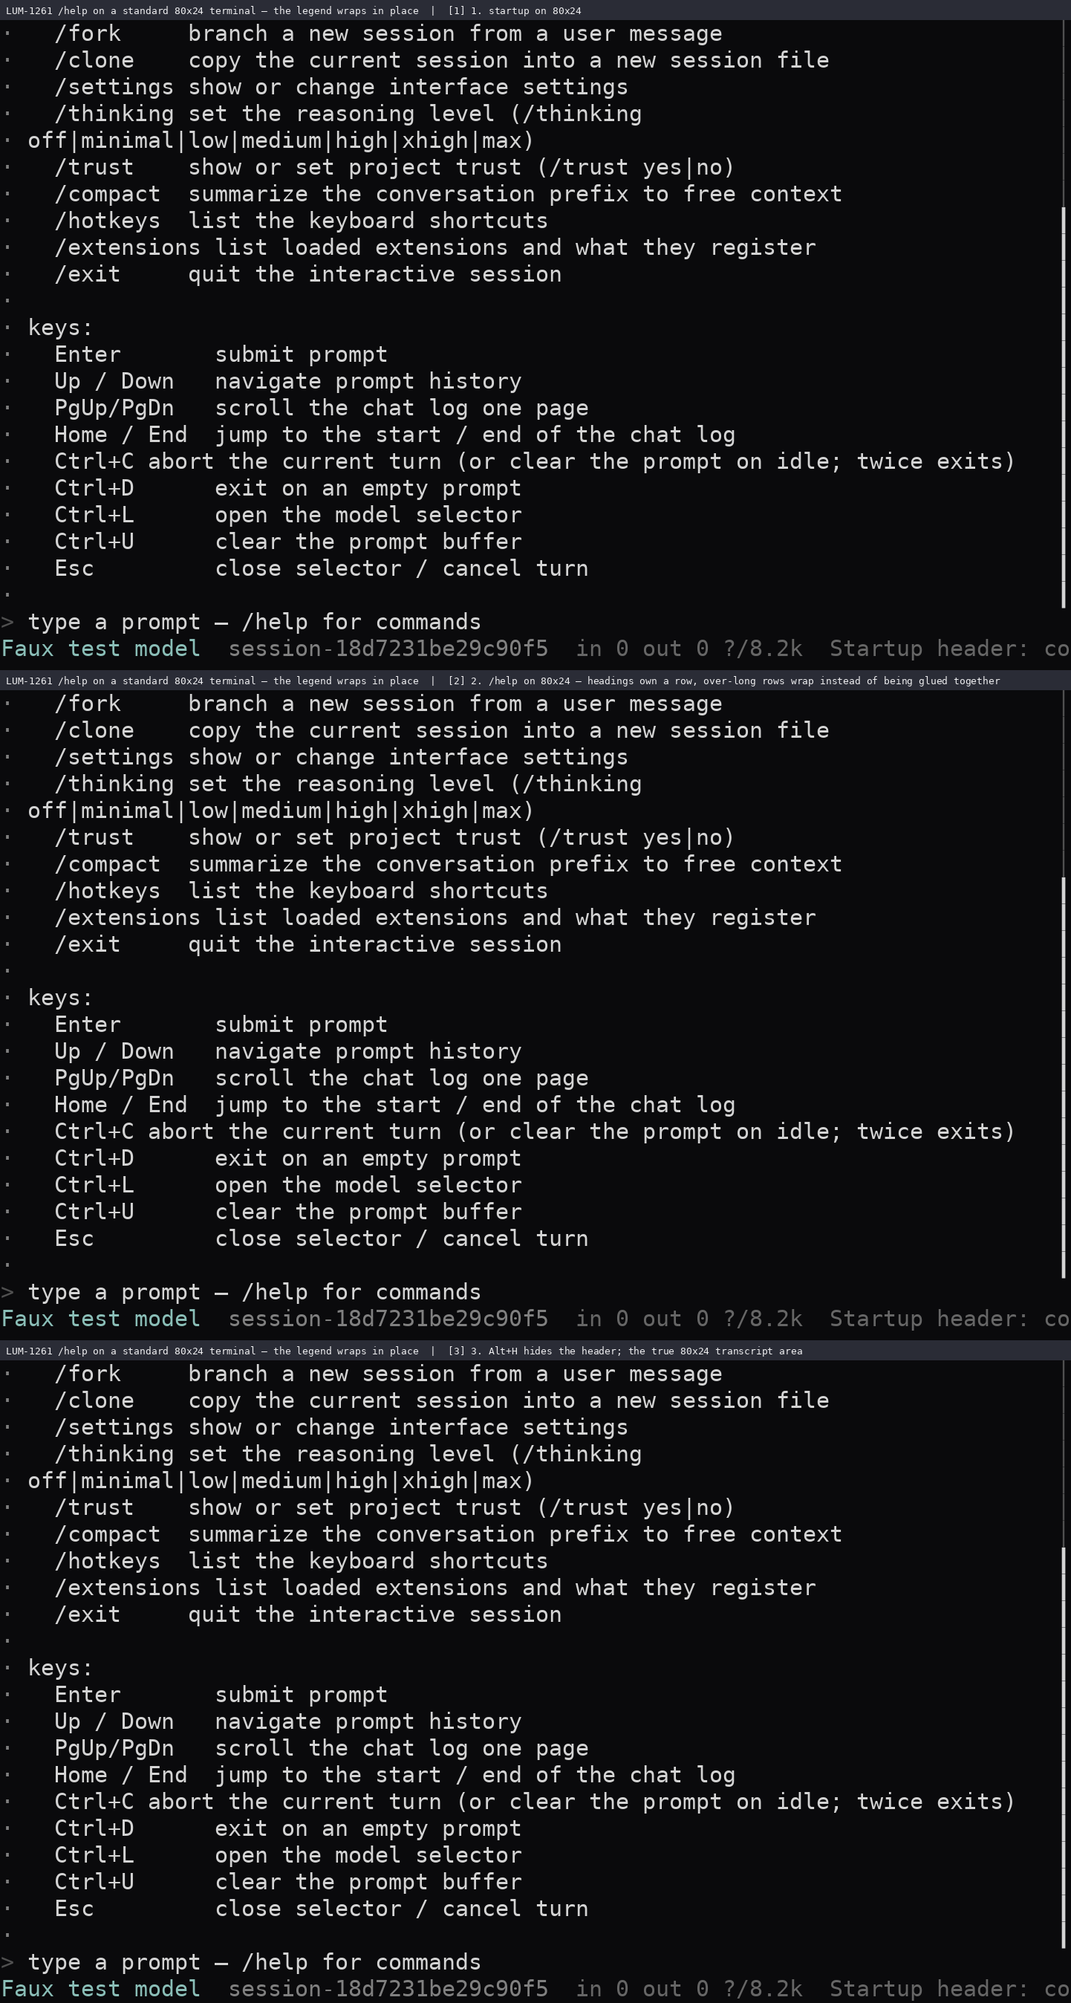
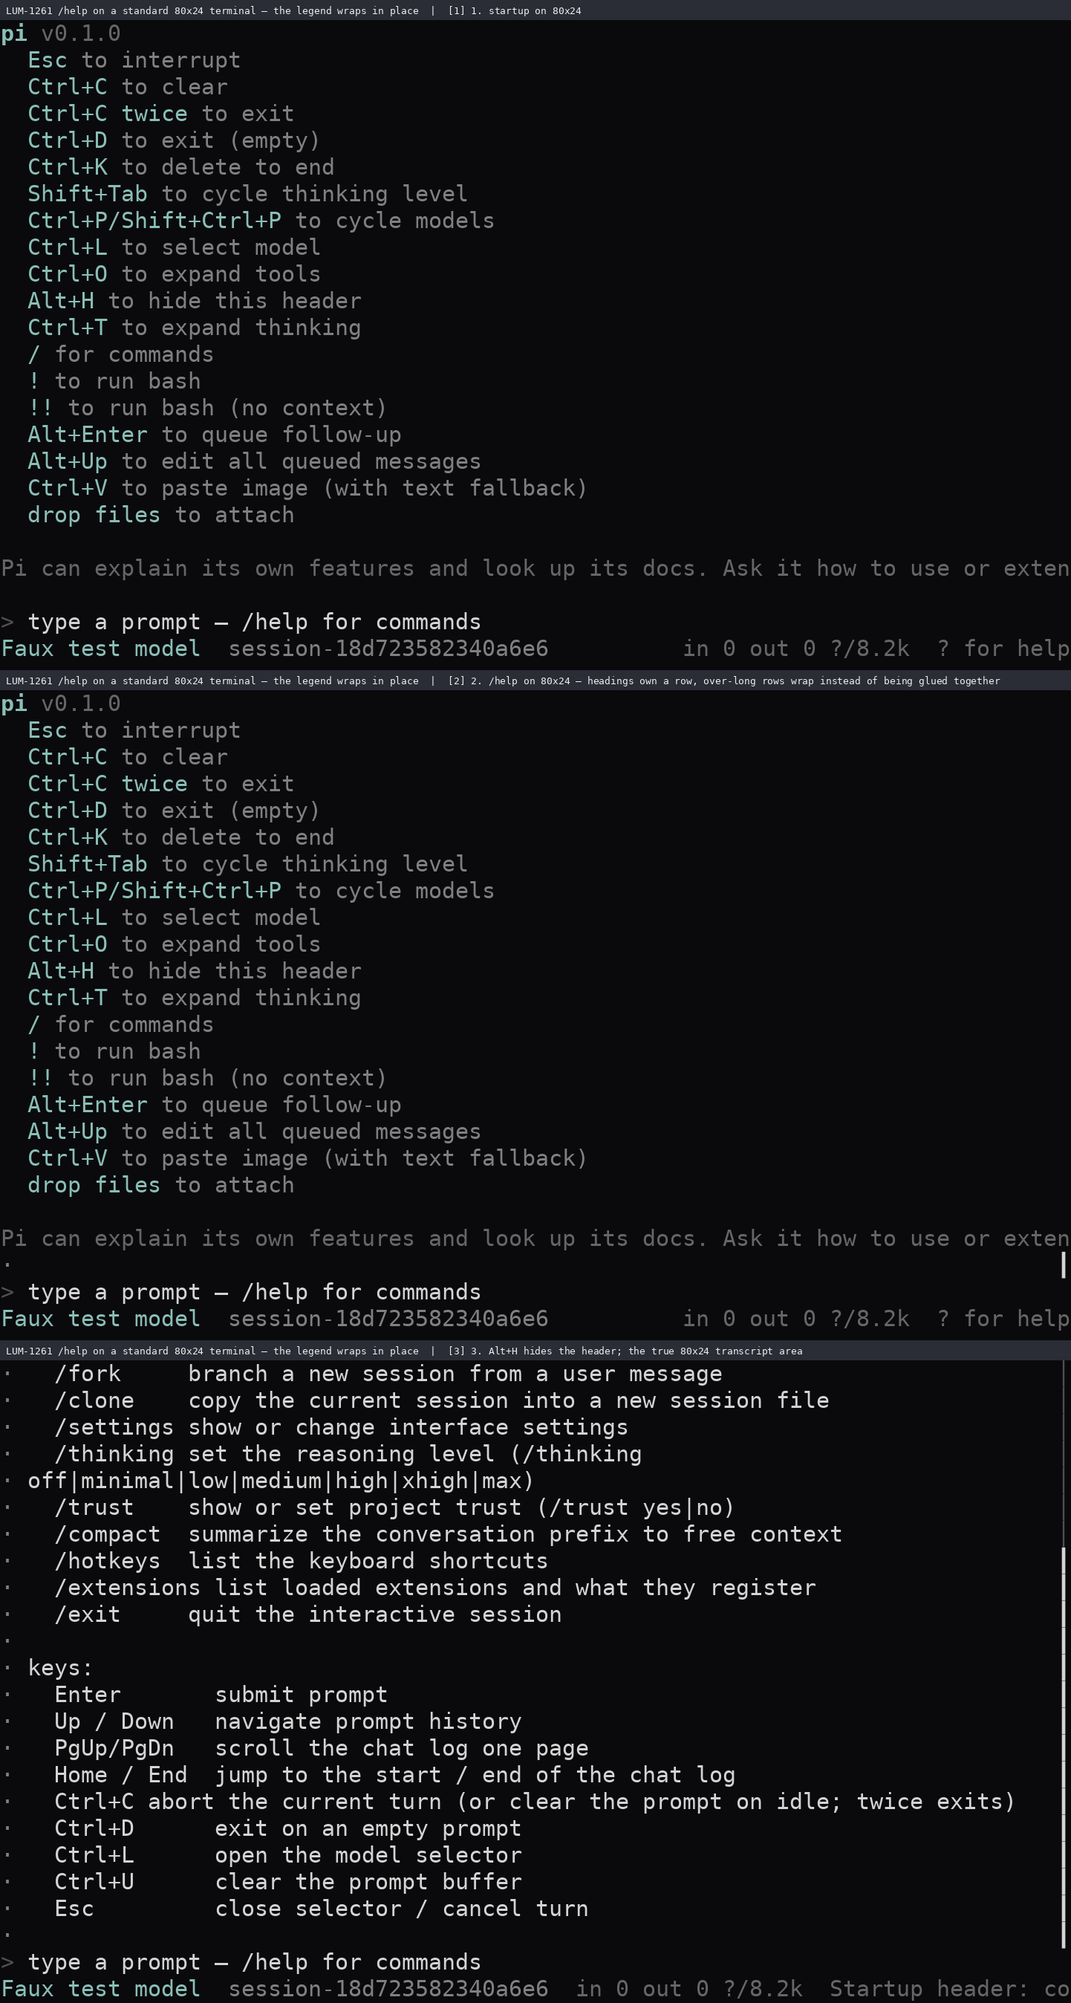
fix(pi-tui),docs: LUM-1261 — 启动头不再把输入框挤出屏幕（plan_chrome 先预留提示行）
根因：extension_ui.rs 的 plan_chrome 按渲染顺序发预算（header 第一、editor 最后），
默认 21 行启动头在 total=23 时吃光 23-1(状态栏)-1(转写行)=21 行预算，editor 拿到 0 行，
输入框被画进零高度区域 → 用户在 120x22/120x23 终端上盲打（LUM-1260 §3.1 的第 1 条）。

修法：先预留 editor 那一行（提示行不可替代，启动头自带 Alt+H 逃生口），其余再按
header → Above → Below → footer 发，用尽时仍截尾；被截的是 header 的尾行
（paint_extension_lines 只画前 rect.height 行）。24 行及以上行为完全不变。

证据（120x23 同尺寸前后对照，真 PTY）：
- before lum1260-small-terminal-23.png.txt（tip b5769b585）：行 20-23 = 空行/onboarding/空行/状态栏，
  输入框整行不存在；打完草稿仍 grep 不到。
- after  lum1261-small-terminal-23.png.txt（本提交）：行 22 = "> typed blind▍"，Alt+H 仍可收起。

测试：extension_ui.rs:758 新增 the_startup_header_cannot_starve_the_prompt（21 行启动头 x
22/23/24 三档断言）；extension_ui.rs:739 旧用例按新策略更新。pi-tui 全量 798 passed / 0 failed。

文档：TUI_INPUT_AND_LAYOUT_VERIFICATION.md §7（含 §2.5 两条验收标准达成的取证与
§7.4 未做项）、RUST_TS_PARITY_METRICS.md §0.3（口径不变，关闭 §0.2 性价比序列的第 1、3 条）。

diff --git a/pi-rust/crates/pi-tui/src/extension_ui.rs b/pi-rust/crates/pi-tui/src/extension_ui.rs
@@ -31,14 +31,24 @@
 //! * The status row (1 row) and at least one message row are reserved first;
 //!   the message view therefore never disappears, however tall the extension
 //!   regions are.
-//! * The remaining rows are handed to the chrome regions in render order —
-//!   header, Above widgets, editor, Below widgets, footer — each taking at
-//!   most what its component asked for.
+//! * The editor region is reserved **next**, before the header. The prompt is
+//!   the one region the user cannot do anything without, and the header is the
+//!   region that can be folded away (`Alt+H`) — on a default startup frame the
+//!   built-in header is 21 rows, so letting it take the budget first left the
+//!   editor with zero rows and the user typed blind on a 22/23-row terminal
+//!   (`docs/PARITY_AND_TUI_AUDIT_LUM1260.md` §3.1, re-measured in
+//!   `docs/TUI_INPUT_AND_LAYOUT_VERIFICATION.md` §3). Upstream's flex layout
+//!   shrinks the flexible message area, never the fixed editor region.
+//! * The remaining rows are handed to the rest of the chrome in render order —
+//!   header, Above widgets, Below widgets, footer — each taking at most what
+//!   its component asked for.
 //! * A region that does not fit in what is left is **truncated to the
 //!   remaining rows (its tail is dropped)** and every later region renders
 //!   nothing. This is the "truncate the tail" policy: upstream's `Container`
 //!   renders every child and lets the terminal clip, which is the same
 //!   observable result as long as the message view keeps its reserved row.
+//!   The header keeps its first rows, so a squeezed header loses its
+//!   onboarding line and then its last hints — not its title and first hints.
 //!
 //! # Widget ordering
 //!
@@ -400,8 +410,8 @@ pub(crate) struct ChromeLayout {
 /// extension regions.
 ///
 /// See the module docs for the policy; the short version is "reserve the
-/// status row and one message row, then hand out the rest in render order,
-/// truncating the tail".
+/// status row, the prompt and one message row, then hand out the rest in
+/// render order, truncating the tail".
 pub(crate) fn plan_chrome(total: u16, frame: &ExtensionFrame) -> ChromeLayout {
     let status = 1u16.min(total);
     // One row stays with the message view so it never vanishes.
@@ -412,16 +422,23 @@ pub(crate) fn plan_chrome(total: u16, frame: &ExtensionFrame) -> ChromeLayout {
         got
     };
 
-    let header = take(lines_height(&frame.header));
-    let above = take(lines_height(&frame.above));
-    // The prompt always needs a row, and a component that renders nothing
-    // would otherwise make the editor region disappear entirely.
+    // The prompt is reserved before the header, not after it (LUM-1261).
+    // Handing the budget to the header first let the 21-row startup legend
+    // consume every row on a 22/23-row terminal, leaving `editor == 0`: the
+    // composer was painted into a zero-height region and the user typed into
+    // an invisible input (`docs/PARITY_AND_TUI_AUDIT_LUM1260.md` §3.1). The
+    // header is foldable and the prompt is not, so the header is what gives
+    // way — it is truncated (its tail dropped) instead of starving the
+    // editor. The prompt always needs a row, and a component that renders
+    // nothing would otherwise make the editor region disappear entirely.
     let editor = take(
         frame
             .editor
             .as_ref()
             .map_or(1, |lines| lines_height(lines).max(1)),
     );
+    let header = take(lines_height(&frame.header));
+    let above = take(lines_height(&frame.above));
     let below = take(lines_height(&frame.below));
     let footer = take(lines_height(&frame.footer));
     let used = header + above + editor + below + footer;
@@ -720,13 +737,44 @@ mod tests {
 
     #[test]
     fn plan_chrome_truncates_the_tail_when_the_chrome_overflows() {
-        // 5 rows total: 1 status + 1 message leave 3 for chrome, all of
-        // which the header claims, starving the prompt and the footer.
+        // 5 rows total: 1 status + 1 message leave 3 for chrome. The prompt
+        // takes its reserved row first (it is the region the user cannot work
+        // without), then the header takes the remaining 2 and the tail — the
+        // Above/Below widgets and the footer — renders nothing.
         let layout = plan_chrome(5, &frame_with(10, 2, None, 2, 4));
-        assert_eq!(layout.header, 3);
-        assert_eq!((layout.above, layout.editor, layout.below), (0, 0, 0));
+        assert_eq!((layout.editor, layout.header), (1, 2));
+        assert_eq!((layout.above, layout.below), (0, 0));
         assert_eq!((layout.status, layout.footer), (1, 0));
         assert_eq!(layout.message, 1);
+    }
+
+    /// LUM-1261: the 21-row startup header must not push the composer off the
+    /// screen. Measured defect (LUM-1260 §3.1 and re-measured in
+    /// `docs/TUI_INPUT_AND_LAYOUT_VERIFICATION.md` §3): at 120×22 and 120×23 a
+    /// typed draft never appeared in the PTY grid, because the header claimed
+    /// all 21 budget rows and left `editor == 0`. At 24 rows the frame fits, so
+    /// the header keeps every row there.
+    #[test]
+    fn the_startup_header_cannot_starve_the_prompt() {
+        let header = 21u16;
+        // 24 rows: everything fits — header intact, prompt, one message row.
+        let layout = plan_chrome(24, &frame_with(header as usize, 0, None, 0, 0));
+        assert_eq!(
+            (layout.header, layout.editor, layout.message, layout.status),
+            (21, 1, 1, 1)
+        );
+        // 23 and 22 rows: the prompt and the message row survive; the header
+        // is truncated by exactly the rows they needed.
+        for total in [23u16, 22] {
+            let layout = plan_chrome(total, &frame_with(header as usize, 0, None, 0, 0));
+            assert_eq!(
+                (layout.header, layout.editor, layout.message, layout.status),
+                (header - (24 - total), 1, 1, 1),
+                "at {total} rows the prompt must stay on screen"
+            );
+            assert!(layout.editor >= 1, "at {total} rows the prompt vanished");
+            assert!(layout.header >= 1, "at {total} rows the header vanished");
+        }
     }
 
     #[test]

diff --git a/pi-rust/crates/pi-tui/tests/extension_ui.rs b/pi-rust/crates/pi-tui/tests/extension_ui.rs
@@ -261,16 +261,23 @@ fn an_over_tall_region_is_truncated_and_the_message_view_survives() {
         "h1", "h2", "h3", "h4", "h5", "h6", "h7", "h8", "h9", "h10",
     ]))));
 
-    // height 5 → status 1 + one reserved message row leave 3 for the header,
-    // and the tail of the header is dropped. The later chrome regions (the
-    // prompt included) get nothing.
+    // height 5 → status 1 + one reserved message row leave 3 rows for the
+    // chrome. The prompt takes its own row first (LUM-1261: it is the one
+    // region the user cannot work without, and the header can be folded away),
+    // so the header is truncated to its first 2 rows and the later chrome
+    // regions get nothing.
     let snapshot = app.render_snapshot(30, 5);
     assert_eq!(snapshot.lines[0], "h1");
-    assert_eq!(snapshot.lines[2], "h3");
-    assert_eq!(snapshot.lines[3].trim(), "> hello", "message row survives");
+    assert_eq!(snapshot.lines[1], "h2");
+    assert_eq!(snapshot.lines[2].trim(), "> hello", "message row survives");
+    assert!(
+        snapshot.lines[3].contains('>'),
+        "the prompt keeps a row instead of being starved: {:?}",
+        snapshot.lines
+    );
     assert!(snapshot.lines[4].contains("Faux"));
     assert!(
-        !snapshot.lines.iter().any(|line| line.contains("h4")),
+        !snapshot.lines.iter().any(|line| line.contains("h3")),
         "the header tail must be dropped: {:?}",
         snapshot.lines
     );

diff --git a/pi-rust/docs/TUI_INPUT_AND_LAYOUT_VERIFICATION.md b/pi-rust/docs/TUI_INPUT_AND_LAYOUT_VERIFICATION.md
@@ -261,3 +261,96 @@ KeyCode::PageUp => self.page_up(),
   可复用的 6.6 GB warm `target/` 挪进本轮工作区，使本轮所有构建都在 `--offline` 下完成。
 - 本轮交付物 = 本文 + 1 个进程级探针 + 3 个 PTY 场景（均重抓）+ 1 条 `#[ignore]` 验收测试 + 3 张截图，
   与正在冲突的文件**零交集**。
+---
+
+## 7. LUM-1261 收尾：§2.5 的两条验收标准达成，§3 的"输入框盲打"关闭（tip `c8bc6785a` + 本轮提交）
+
+### 7.1 `/help` 排版：`wrap_text` 改成换行感知（§2.5 两条标准均达成）
+
+改动全部在 `pi-rust/crates/pi-tui/src/message.rs`（本轮之前**没有任何在飞 run 碰过这个文件**）：
+
+| 符号 | 行 | 行为 |
+| --- | --- | --- |
+| `split_hard_lines()` | `message.rs:1533` | 只按 `\r\n` / `\r` / `\n` 切一次，得到源行 |
+| `wrap_text()` | `message.rs:1570` | 改为**逐源行**包装（空输入 → `[""]`），不再把整块正文当一段重排 |
+| `wrap_single_line()` | `message.rs:1591` | **原样快路径**：`display_width(line) <= width` 直接返回该行（缩进与列对齐原样保住）；只有超宽行才落回贪心折行；整行空白且超宽 → `[""]` |
+| `wrap_words()` | `message.rs:1620` | 旧的贪心折行算法，改名保留，供超宽行使用 |
+
+与上游契约一致：`packages/tui/src/utils.ts:843-866` 的 `wrapTextWithAnsi`（先按 `/\r\n|\r|\n/` 切、再逐行包）与
+`utils.ts:873-876` 的 `wrapSingleLine`（`visibleWidth <= width` 时原样返回）。
+
+§2.5 的两条验收标准，逐条落实：
+
+1. **§2.3 的复现转绿并去掉 `#[ignore]`** → `pi-rust/crates/pi-tui/tests/lum1259_info_block_lines.rs`
+   （`a_command_reference_block_keeps_its_line_structure`、`an_info_block_renders_one_row_per_source_row`，2 passed）。
+2. **补一条用真实 `help_text()` 的断言** → 新增 `pi-rust/crates/pi-coding-agent/tests/help_text_layout.rs`
+   （3 passed：32 行真实 `/help` 图例逐行成行、`hotkeys_text()` 逐行成行、80 列下"有界折行且不溢出"）。
+   测试读的是 `commands::slash::{help_text, hotkeys_text}` 本体（`slash.rs:404`），不是另写的 fixture。
+
+PTY 实拍（120×50，同一 `lum1259-tip-interaction` / `lum1261-help-layout` 场景）：
+
+```text
+# before（tip b5769b585）docs/screenshots/lum1259-tip-interaction.png.txt:205
+· slash commands: /help show this help text /clear clear the message view /new start a new session /copy copy the last
+# after （tip c8bc6785a+）docs/screenshots/lum1261-help-layout.png.txt:129 / :143 / :150
+· slash commands:
+·   /thinking set the reasoning level (/thinking off|minimal|low|medium|high|xhigh|max)
+· keys:
+·   Enter       submit prompt
+```
+
+### 7.2 ≤23 行终端：启动头不再把输入框挤出屏幕（§3 + LUM-1260 §3.1 的第 1 条）
+
+**根因**（不是渲染器丢行，是行预算的发放顺序）：`pi-rust/crates/pi-tui/src/extension_ui.rs:415`
+的 `plan_chrome` 按渲染顺序发预算——**header 第一、editor 最后**。默认启动头是 **21 行**，
+而 `total = 23` 时预算只有 `23 - 1(状态栏) - 1(转写行) = 21`，于是 header 吃光全部预算、
+`editor == 0`：输入框被画进零高度区域，用户**盲打**（120×22 / 120×23 实测草稿一个字都不在屏上）。
+
+**修法**：`plan_chrome` **先预留 editor 那一行**（提示行是用户唯一不能没有的区域，而启动头自带
+`Alt+H` 逃生口），剩下的再按 header → Above → Below → footer 顺序发。仍然保留"截尾"策略，
+被截的是 header 的**尾行**（先丢 onboarding 行、再丢末尾几条键位，标题与前几条键位保留；
+`paint_extension_lines` 本来就只画前 `rect.height` 行）。上游是 flex 布局、被压缩的永远是
+可伸缩的转写区而不是固定高度的编辑区，这条修法与之同向。
+
+**实测**：同一场景 120×23，前=`docs/screenshots/lum1260-small-terminal-23.png.txt`（tip `b5769b585`），
+后=`docs/screenshots/lum1261-small-terminal-23.png(.txt)`（tip `c8bc6785a`，场景文件
+`scripts/pty_scenarios/lum1261-small-terminal-23.json`）：
+
+| 120×23 帧 | before（`b5769b585`） | after（`c8bc6785a`+） |
+| --- | --- | --- |
+| 行 1–19 | 标题 + 18 条键位 | 标题 + 18 条键位（同上） |
+| 行 20 / 21 / 22 | 空行 / onboarding 行 / 空行 | 空行 / 转写行 / **`> type a prompt — /help for commands`** |
+| 行 23 | 状态栏 | 状态栏 |
+| 草稿 `typed blind` | **不出现**（`grep -c` = 0） | 行 22 `> typed blind▍` |
+| `Alt+H` | 收起成功 | 收起成功，状态栏显示 `Startup header: collapsed (Alt+H to show)`，草稿仍在 |
+
+行数预算是可复核的：`total=24` 时 `(header, editor, message, status) = (21, 1, 1, 1)`（与旧策略完全一致，24 行以上零行为变化）；
+`total=23/22` 时 header 被截到 20/19 行、editor 与 message 各保住 1 行。回归测试写在
+`extension_ui.rs:758`（`the_startup_header_cannot_starve_the_prompt`：21 行启动头 + 22/23/24 三档全断言），
+`extension_ui.rs:739` 的旧用例按新策略更新（它原来断言"header 独占 3 行、prompt 什么都拿不到"）。
+
+### 7.3 本轮门禁（独立运行）
+
+| 命令 | 结果 |
+| --- | --- |
+| `cargo test --offline -p pi-tui` | **798 passed / 0 failed**，45 个 test target 全部有结果（含 lib 358 条） |
+| `cargo test --offline -p pi-coding-agent --test startup_header --test help_text_layout --test keybindings --test print_mode --test tools_render --test builtin_tool_factories` | **66 passed / 0 failed** |
+| `cargo test --offline -p pi-coding-agent --test extension_ui` | 7 passed（但见下条 flaky） |
+| `cargo test --offline --workspace` | **仍无法完成**（磁盘），与上轮同一原因，逐字错误：`error: linking with \`cc\` failed: exit status: 1` / `error: couldn't create a temp dir: No space left on device (os error 28)` → `could not compile \`pi-coding-agent\` (test "tools_render")`。50G 共享卷同时有 4–5 条 run 在构建，本轮两次打满到 0 字节，**不是代码问题**。 |
+
+**一条既有 flaky（不是本轮引入）**：`pi-coding-agent --test extension_ui` 的
+`interactive_regions_render_into_the_app` 实测 20 次里失败 1 次，失败信息是
+`EDITOR missing from [...]`（帧里还是默认 prompt、`FOOTER` 也没到）——它在该 target 首次提交
+`d02fb0ace`（LUM-1190）就在，是 `pump()` 投递与渲染之间的异步竞态；与布局预算无关：
+40×12 下新旧 `plan_chrome` 的分配**完全相同**（每个区域只占 1 行、预算 10 行且无截断）。
+
+### 7.4 本轮**没**做的（诚实条目）
+
+1. **低于 24 行时自动收起启动头**（§3 的建议）仍未实现。现在不是靠"收起"，而是靠"截尾 + 保住提示行"
+   让输入框可见；`total >= 24` 时启动头依旧占满 21 行，80×24 的"界面只剩一行内容"观感没变。
+   这条要动 `app.rs`（渲染前按尺寸决定 `header_expanded`），本轮 3 条在飞 run 正在改 `app.rs`，故意不碰。
+2. **80 列时超宽行的内部列对齐仍会丢**：列宽预算不够时 `Ctrl+C abort the current turn (…)` 这类行会折成两行、
+   第二行从正文列 0 起排。上游同款行为（先按空白折叠再包），保留为已知的外观偏差，不做 Rust 特有的增强。
+3. **`plan_chrome` 的新顺序改了扩展区域的观测行为**：当扩展 header/Above/Below/footer 的总需求超过终端高度时，
+   现在优先保证输入框，其次 header，其余截尾。这是**策略变更**，影响面已由 `pi-tui/tests/extension_ui.rs`
+   与 pi-tui 全量用例覆盖（798 条全绿）。

diff --git a/pi-rust/docs/RUST_TS_PARITY_METRICS.md b/pi-rust/docs/RUST_TS_PARITY_METRICS.md
@@ -91,6 +91,31 @@ silent:      7/44 (15.9%)  app.models.{clearAll,enableAll,reorderDown,reorderUp,
 
 > 教训（写进流程）：**百分比必须附「怎么量的」与「量它的脚本」**。我 §0.1 那张表里只有这一格是自己撮合出来的扫描器，也恰好是错得最厉害的一格；LUM-1260 的工具之所以可信，是因为它能被 `--check-consumed` 反测试（伪造清单会报 `FALSE AD` 并 exit 1）。后续这类数字一律走可复核脚本。
 
+### 0.3 LUM-1261 复测：§0.2「性价比序列」的第 1、3 条已关闭（tip `c8bc6785a` + 本轮提交）
+
+本轮**不改任何计数口径**，所以加权总分仍是 §0.2 的 **81.4%**（`app.*` 接线 79.5%；TUI 交互+视觉轴
+用同一条公式 `(14×0.795 + 8×0.91) / 22` = **83.7%**，即 §0.1 表格里那格 73.8% 在口径更正后的值）。
+改的是**证据**，而且是 §0.2 自己列出的性价比序列：
+
+| §0.2 的序列 | 本轮 | 证据 |
+| --- | --- | --- |
+| 1. ≤23 行终端里输入框整个不在屏上（盲打） | **关闭** | `pi-tui/src/extension_ui.rs:415` 的 `plan_chrome` 改为**先预留提示行**（启动头可折叠、输入框不可）；120×23 前后对照 `docs/screenshots/lum1260-small-terminal-23.png.txt`（草稿不可见）→ `lum1261-small-terminal-23.png.txt`（行 22 `> typed blind▍`）；回归测试 `extension_ui.rs:758`；细节见 `docs/TUI_INPUT_AND_LAYOUT_VERIFICATION.md` §7.2 |
+| 2. 扩展事件缺 15 个 | 未动 | 不是本 issue 的面，仍待专门一轮 |
+| 3. `/help` 预排版被 `wrap_text` 重排成一整段 | **关闭** | `pi-tui/src/message.rs:1533/1570/1591` 换行感知包装 + 原样快路径；`pi-coding-agent/tests/help_text_layout.rs`（真实 `help_text()`）；120×50 前后对照 `lum1259-tip-interaction.png.txt:205` → `lum1261-help-layout.png.txt:129`；细节见 `docs/TUI_INPUT_AND_LAYOUT_VERIFICATION.md` §7.1 |
+
+门禁（本轮独立运行，全部 `--offline`）：
+
+| 命令 | 结果 |
+| --- | --- |
+| `cargo test --offline -p pi-tui` | **798 passed / 0 failed**，45 个 target 全部有结果（含 lib 358） |
+| `cargo test --offline -p pi-coding-agent --test startup_header --test help_text_layout --test keybindings --test print_mode --test tools_render --test builtin_tool_factories` | **66 passed / 0 failed** |
+| `cargo test --offline --workspace` | 未完成：`error: couldn't create a temp dir: No space left on device (os error 28)` → `could not compile \`pi-coding-agent\` (test "tools_render")`。50G 共享卷同时 4–5 条 run 在构建，与代码无关 |
+
+已知 flaky（**早于本轮**，记在这里以免下一轮误判）：`pi-coding-agent --test extension_ui` 的
+`interactive_regions_render_into_the_app` 实测 20 次失败 1 次（`EDITOR missing from [...]`），
+该用例自 `d02fb0ace`（LUM-1190）就在，是 `pump()` 投递与渲染之间的竞态；40×12 下新旧 `plan_chrome`
+分配完全相同，**与本轮布局改动无关**。
+
 ## 1. 方法与口径
 
 ### 1.1 测量命令（可复现）
